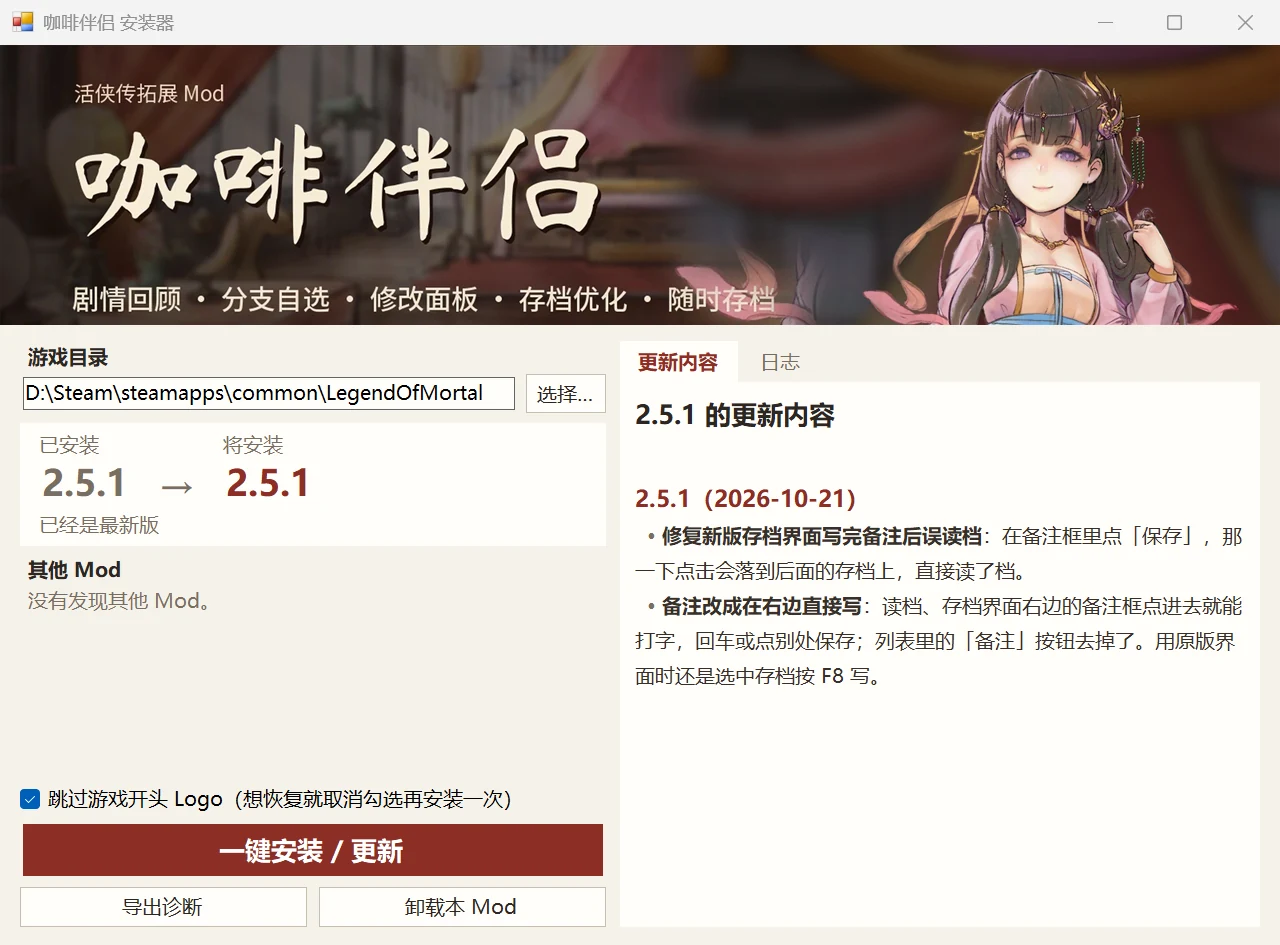
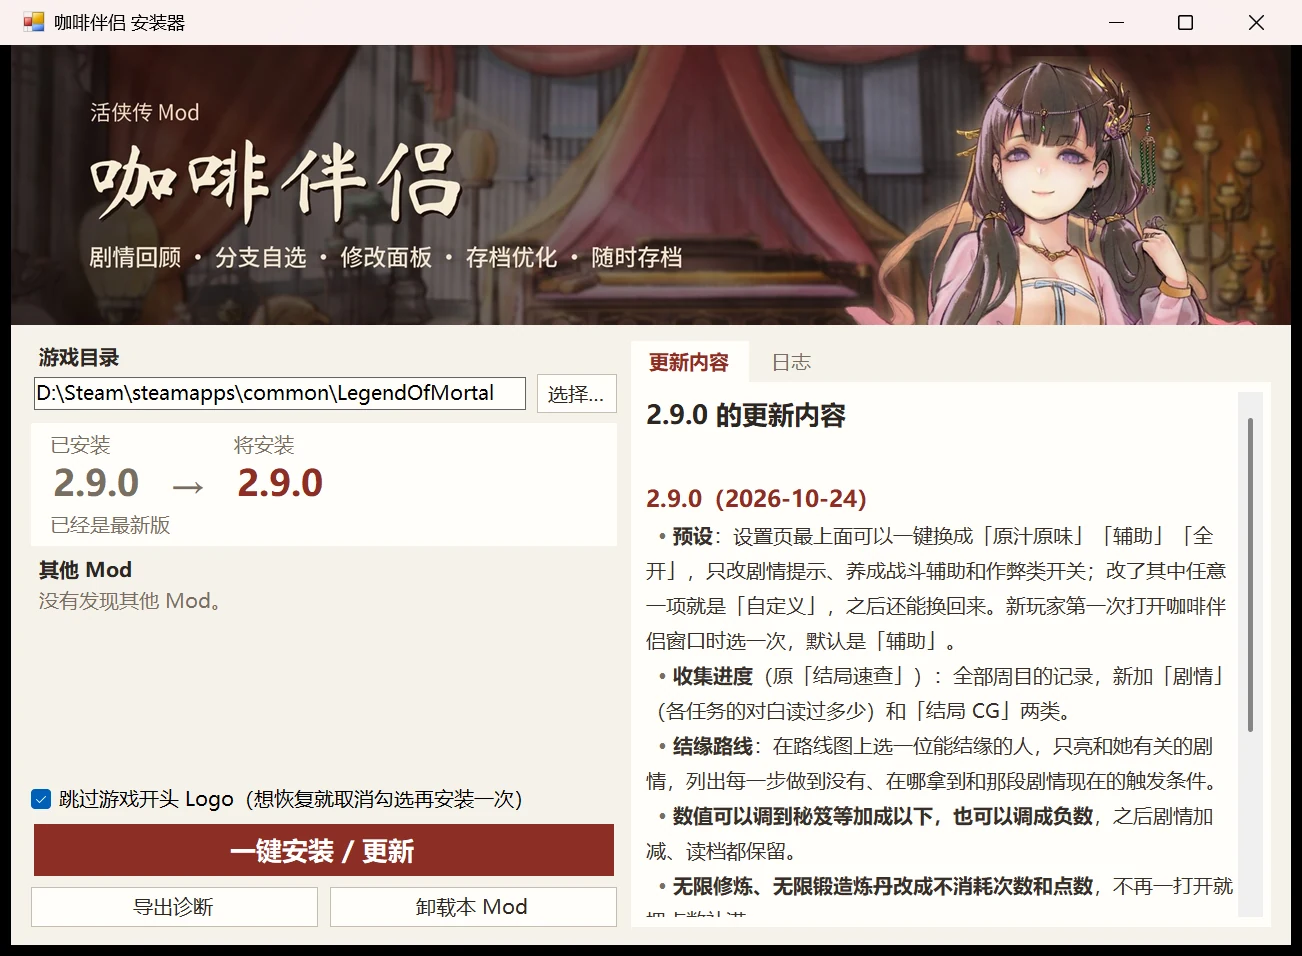
README 的安装器截图按语言各用一张（简中、繁中、英、日、韩），简中那张也换成最新版

diff --git a/README.ja.md b/README.ja.md
@@ -18,7 +18,7 @@ ZIP には BepInEx が同梱されています。
 
 **インストーラー（おすすめ）**：解凍して `咖啡伴侣安装器 Installer.exe` を実行し、「インストール／更新」をクリックします。ゲームフォルダを自動で探して最新版をダウンロードし（GitHub に繋がらない場合は同梱版を導入）、競合する古いMODは `BepInEx\DisabledMods` に移動します（削除はしません）。更新するときはもう一度実行するだけです。インストーラーは Windows の表示言語に合わせて表示されます。
 
-<img src="media/installer.webp" width="640" alt="インストーラー：ゲームフォルダ、インストール済みと予定のバージョン、更新内容、インストール／更新、診断の書き出し、アンインストール">
+<img src="media/installer.ja.webp" width="640" alt="インストーラー：ゲームフォルダ、インストール済みと予定のバージョン、更新内容、インストール／更新、診断の書き出し、アンインストール">
 
 **手動**：Steam で『活侠傳』を右クリック → 管理 → ローカルファイルを閲覧し、ZIP の中身をすべてゲームフォルダに上書きで展開します。先に `BepInEx\plugins` から同種の古いMOD（骰子大师、多功能 Mod、赵活系统）を削除してください。
 

diff --git a/README.ko.md b/README.ko.md
@@ -18,7 +18,7 @@
 
 **설치 프로그램(추천)**: 압축을 풀고 `咖啡伴侣安装器 Installer.exe`를 실행한 뒤 「설치 / 업데이트」를 누르세요. 게임 폴더를 자동으로 찾아 최신 버전을 내려받고(GitHub에 연결되지 않으면 동봉된 버전을 설치), 충돌하는 옛 Mod는 `BepInEx\DisabledMods`로 옮깁니다(삭제하지 않음). 업데이트할 때는 다시 실행하면 됩니다. 설치 프로그램은 Windows 표시 언어에 맞춰 표시됩니다.
 
-<img src="media/installer.webp" width="640" alt="설치 프로그램: 게임 폴더, 설치된 버전과 설치할 버전, 업데이트 내용, 설치 / 업데이트, 진단 내보내기, 제거">
+<img src="media/installer.ko.webp" width="640" alt="설치 프로그램: 게임 폴더, 설치된 버전과 설치할 버전, 업데이트 내용, 설치 / 업데이트, 진단 내보내기, 제거">
 
 **수동 설치**: Steam에서 『활협전』을 우클릭 → 관리 → 로컬 파일 보기에서, 압축 파일의 내용을 모두 게임 폴더에 덮어쓰며 풀어 주세요. 먼저 `BepInEx\plugins`에서 같은 종류의 옛 Mod(骰子大师, 多功能 Mod, 赵活系统)를 지우세요.
 

diff --git a/README.en.md b/README.en.md
@@ -18,7 +18,7 @@ The zip already contains BepInEx.
 
 **Installer (recommended)**: unzip and run `咖啡伴侣安装器 Installer.exe`, then click **Install / Update**. It finds the game folder, downloads the latest version (or installs the bundled one if GitHub is unreachable) and moves old mods known to conflict to `BepInEx\DisabledMods` (not deleted). Run it again to update. The installer follows your Windows display language.
 
-<img src="media/installer.webp" width="640" alt="Installer: game folder, installed and new version, release notes, install / update, export diagnostics, uninstall">
+<img src="media/installer.en.webp" width="640" alt="Installer: game folder, installed and new version, release notes, install / update, export diagnostics, uninstall">
 
 **Manual**: in Steam, right-click *Legend of Mortal* → Manage → Browse local files, and extract everything in the zip into the game folder, overwriting files. Remove older mods of the same kind (骰子大师, 多功能 Mod, 赵活系统) from `BepInEx\plugins` first.
 

diff --git a/README.zh-Hant.md b/README.zh-Hant.md
@@ -16,7 +16,7 @@
 
 **一鍵安裝（推薦）**：解壓後雙擊 `咖啡伴侣安装器 Installer.exe`，點「一鍵安裝 / 更新」。它會自動找到遊戲資料夾、連線下載最新版（連不上 GitHub 就裝壓縮包自帶的版本），把已知會衝突的舊 Mod 移到 `BepInEx\DisabledMods`（不刪除）。以後更新再執行一次即可。
 
-<img src="media/installer.webp" width="640" alt="安裝器：遊戲資料夾、已安裝和將安裝的版本、更新內容，一鍵安裝 / 更新、匯出診斷、卸載">
+<img src="media/installer.zh-Hant.webp" width="640" alt="安裝器：遊戲資料夾、已安裝和將安裝的版本、更新內容，一鍵安裝 / 更新、匯出診斷、卸載">
 
 **手動安裝**：Steam 中右鍵《活俠傳》→ 管理 → 瀏覽本地檔案，把壓縮包裡的所有內容解壓到遊戲資料夾並覆蓋。先刪掉 `BepInEx\plugins` 裡的舊版骰子大師、多功能 Mod、趙活系統等同類 Mod。
 
